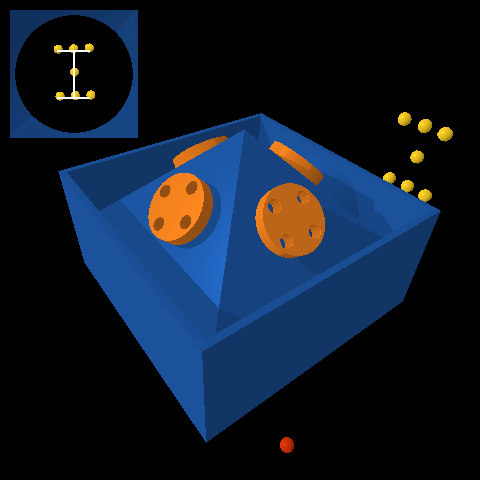
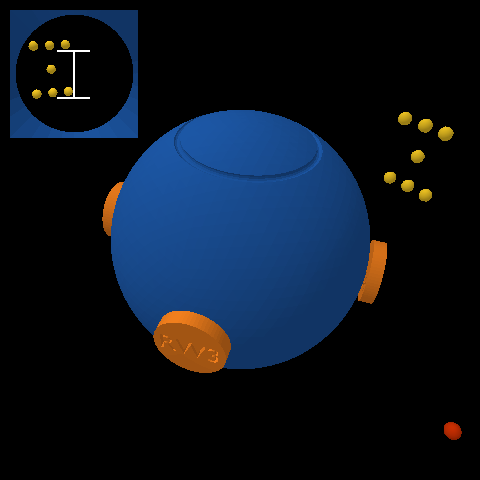
dp3 guidelines

diff --git a/docs/projects.md b/docs/projects.md
@@ -13,6 +13,230 @@ description: How to get started on your design projects
 
 ---
 
+## Design Project \#3 (Spacecraft with star tracker)
+
+### System {#spacecraft-system}
+
+The third project that you will complete this semester is to design, implement, and test a controller that enables a spacecraft to maintain a fixed orientation, as pictured below:
+
+![Image of spacecraft](./images/spacecraft.png)
+
+This spacecraft (blue) has four reaction wheels (orange). It is up to you to decide where these reaction wheels are located — the picture shows one among many possibilities. These reaction wheels, like the [control moment gyroscope you considered in your first design project](#design-project-1-cmg), are momentum exchange devices — when a torque is applied to a wheel, an equal and opposite torque is applied to the spacecraft. It is these reaction wheels that will allow your controller to keep the spacecraft pointing in the right direction.
+
+This spacecraft also has a star tracker. This star tracker is a camera that measures the position in an image of each star (yellow) in its field of view. These measured positions, while not perfect, can be compared to where stars *should* be in order to estimate the orientation and angular velocity of the spacecraft.
+
+Beware! Flying debris (red) may collide with your spacecraft and cause sudden disturbances.
+
+Working as a GNC sub-contractor, you have been asked by a client to design the momentum exchange system (i.e., decide where to put each reaction wheel) as well as to prototype and test a controller that keeps the spacecraft at a fixed orientation despite the flying debris.
+
+
+### Context {#spacecraft-context}
+
+[Celestial navigation](https://education.nationalgeographic.org/resource/navigation/) — "using stars, moon, sun, and horizon to calculate position" (or simply the time of day) — dates back thousands of years.
+
+[Star trackers](https://en.wikipedia.org/wiki/Star_tracker) — like those from [Ball](https://www.ball.com/aerospace/capabilities/technologies-components/star-trackers), [Terma](https://www.terma.com/products/space/star-trackers/), or [Rocket Lab](https://www.rocketlabusa.com/space-systems/satellite-components/star-trackers/), for example — take this same concept into space. One key difference is that while celestial navigation on Earth has been used primarily to determine position (i.e., latitude and longitude), star trackers in space are used primarily to determine orientation or "spacecraft attitude."
+
+The way this works is that star trackers compare the location of stars in an image to a pre-surveyed catalog of stars. In particular, this catalog allows a star tracker to predict the pattern of stars that will be seen in an image as a function of spacecraft orientation. The star tracker searches for the orientation — e.g., for the yaw, pitch, and roll angles — that would make the predicted pattern best match the observed pattern.
+
+Doing this from scratch without a good initial guess is a challenge, and can be slow. *Updating* an *existing* estimate of orientation, however, can be done quickly and used for fine guidance. This is what you will do in your own project.
+
+Some of the small satellites that are designed, built, and launched by the Laboratory for Advanced Space Systems at Illinois (LASSI) use star trackers as a critical part of their GNC subsystems. See their [description of facilities](https://aerospace.illinois.edu/research/research-facilities/laboratory-advanced-space-systems-illinois-lassi) and [ research website](https://lassiaero.web.illinois.edu) for more information.
+
+You can read more about star trackers and their use for spacecraft attitude determination — as well as more about reaction wheels and their use for spacecraft attitude control — in [Fundamentals of Spacecraft Attitude Determination and Control (Markley and Crassidis, 2014)](https://link.springer.com/book/10.1007/978-1-4939-0802-8).
+
+
+
+
+### Model {#spacecraft-model}
+
+The rotational motion of the spacecraft is governed by ordinary differential equations with the following form:
+
+$$\begin{bmatrix} \dot{\psi} \\ \dot{\theta} \\ \dot{\phi} \\ \dot{w_x} \\ \dot{w_y} \\ \dot{w_z} \end{bmatrix} = f\left(\psi, \theta, \phi, w_x, w_y, w_z, \tau_1, \tau_2, \tau_3, \tau_4\right).$$
+
+Here are the variables in these equations:
+
+* $\psi$ is the **yaw angle** (rad)
+* $\theta$ is the **pitch angle** (rad)
+* $\phi$ is the **roll angle** (rad)
+* $w_x$ is the **angular velocity about the body-fixed $x$ axis** (rad/s), which points forward
+* $w_y$ is the **angular velocity about the body-fixed $y$ axis** (rad/s), which points left
+* $w_z$ is the **angular velocity about the body-fixed $z$ axis** (rad/s), which points up
+* $\tau_1$ is the **torque applied to wheel 1** by a motor on the spacecraft ($N\cdot\text{m}$)
+* $\tau_2$ is the **torque applied to wheel 2** by a motor on the spacecraft ($N\cdot\text{m}$)
+* $\tau_3$ is the **torque applied to wheel 3** by a motor on the spacecraft ($N\cdot\text{m}$)
+* $\tau_4$ is the **torque applied to wheel 4** by a motor on the spacecraft ($N\cdot\text{m}$)
+
+The maximum torque that can be applied by each motor is $\pm 1\;\text{N}\cdot\text{m}$.
+
+A [symbolic description of these equations of motion]({{ site.github.repository_url }}/tree/main/projects/03_spacecraft/DeriveEOM-Template.ipynb) is provided with the [project code]({{ site.github.repository_url }}/tree/main/projects/03_spacecraft).
+
+<div class="alert alert-warning">
+<b>The equations of motion depend on where the reaction wheels are placed.</b> The <a href="{{ site.github.repository_url }}/tree/main/projects/03_spacecraft/DeriveEOM-Template.ipynb">same notebook that derives the equations of motion</a> also allows you to choose (and visualize) this placement. You <b>must</b> run the code in this notebook <b>before</b> you run the simulator, since it creates the file (<code>spacecraft.urdf</code> in the <code>urdf</code> directory) that has a model of the spacecraft with <b>your</b> choice of reaction wheel locations.
+</div>
+
+The sensor is a star tracker. It measures the position (in an image) of each star in its field of view. This measurement has the following form **for each star**:
+
+$$\begin{bmatrix} y_\text{star} \\ z_\text{star} \end{bmatrix} = g(\psi, \theta, \phi, \alpha, \delta).$$
+
+You will already recognize the yaw, pitch, and roll angles in this equation. The other variables are as follows:
+
+* $\alpha$ is the **right ascension** (rad) of the star
+* $\delta$ is the **declination** (rad) of the star
+
+Again, a [symbolic description of this equation]({{ site.github.repository_url }}/tree/main/projects/03_spacecraft/DeriveEOM-Template.ipynb) is provided with the [project code]({{ site.github.repository_url }}/tree/main/projects/03_spacecraft). There are seven stars in total — you can find the parameters $\alpha$ and $\delta$ for each one in the [SpacecraftDemo]({{ site.github.repository_url }}/tree/main/projects/03_spacecraft/SpacecraftDemo-Template.ipynb) template.
+
+The code provided [here]({{ site.github.repository_url }}/tree/main/projects/03_spacecraft) simulates the motion of this system ([SpacecraftDemo]({{ site.github.repository_url }}/tree/main/projects/03_spacecraft/SpacecraftDemo-Template.ipynb)) and also derives both the equations of motion and the sensor model in symbolic form ([DeriveEOM]({{ site.github.repository_url }}/tree/main/projects/03_spacecraft/DeriveEOM-Template.ipynb)).
+
+The goal is to keep the spacecraft close to zero yaw, pitch, and roll **for as long as possible** despite noisy sensor measurements and space debris.
+
+Why do I say "for as long as possible?" Because the simulator will quit and the spacecraft mission will be declared over when one of two conditions are met:
+
+* Any star leaves the star tracker's field of view.
+* Any reaction wheel has angular velocity that exceeds $\pm 50\;\text{rad}/\text{s}$.
+
+Since you have no way to do momentum dumping (or... do you?), it is inevitable that one of the wheels will eventually spin too fast. Just try to hang on as long as you can.
+
+
+
+### Your tasks {#spacecraft-your-tasks}
+
+The focus of your analysis this time will be on data collection. The initial conditions, the sensor measurements, and the disturbances are random. So, for a given control design, your results will vary (perhaps significantly). It is not enough to look at the results of one simulation---you will have to look at the results of many simulations. At minimum, for the final design you consider, you should do the following:
+
+* Collect data from at least 100 simulations that run until failure (i.e., with a very large `max_time`).
+* Plot a histogram of the time until failure across all simulations.
+* Plot a histogram of the root-mean-square error (RMSE) in yaw, pitch, and roll angles across all simulations.
+
+Remember that the simulation code provides an option to turn the display off, which can speed up data collection a lot.
+
+#### Things you need to do {#to-do-spacecraft}
+
+Please do the following things:
+
+* Define a [requirement](#what-is-a-requirement) and a [verification](#what-is-a-verification), just as you did in the [second design project](#design-project-2-differential-drive-robot-in-artificial-gravity).
+* Linearize the dynamic model (i.e., the equations of motion) and the sensor model.
+* Show that the linearized system is both controllable and observable.
+* Design a stable controller and a stable observer.
+* Implement both the controller and observer and test them in simulation.
+* Follow the instructions you wrote to verify that your requirement is (or is not) satisfied.
+* Include at least one figure of aggregate results (e.g., a histogram).
+* Include at least one figure that provides evidence the observer is working (e.g., a plot of error in the state estimate as a function of time).
+
+There are many ways to go beyond minimum requirements (how do your results change with different amounts of sensor noise? how do your results change with a different number of arrangement of stars? is there a tradeoff between "time until failure" and "RMSE in yaw, pitch, and roll" or can both measures of performance be improved together? is there a way to use collision with space debris to do momentum dumping?) — come talk to us if you want an extra challenge.
+
+
+### Your deliverables {#spacecraft-your-deliverables}
+
+##### Draft report with theory (by 11:59pm on Friday, March 24)
+
+Submit a first draft of your [report (see below for guidelines)](#final-report-by-1159pm-on-friday-april-7) that includes, at minimum, **a complete "Introduction" section** and a complete "Theory" section. This draft must also include the appendix with your log of all work done so far by each group member.
+
+Upload it to the [**DP3 Draft 1** group assignment on Canvas](https://canvas.illinois.edu/courses/35036/assignments/685986).
+
+##### Draft report with results (by 11:59pm on Friday, March 31)
+
+Submit a second draft of your [report (see below for guidelines)](#final-report-by-1159pm-on-friday-april-7) that includes, at minimum, a complete "Experimental methods" section and a complete "Results and discussion" section. This draft must also include the appendix with your log of all work done so far by each group member.
+
+Upload it to the [**DP3 Draft 2** group assignment on Canvas](https://canvas.illinois.edu/courses/35036/assignments/685987).
+
+##### Final report (by 11:59pm on Friday, April 7)
+
+This report will satisfy the following requirements:
+
+* It must be a single PDF document that conforms to the guidelines for [Preparation of Papers for AIAA Technical Conferences](https://www.aiaa.org/events-learning/events/Technical-Presenter-Resources). In particular, you **must** use either the [Word](https://www.aiaa.org/docs/default-source/uploadedfiles/aiaa-forums-shared-universal-content/preparation-of-papers-for-technical-conferences.docx?sfvrsn=e9a97512_10) or [LaTeX](https://www.overleaf.com/latex/templates/latex-template-for-the-preparation-of-papers-for-aiaa-technical-conferences/rsssbwthkptn#.WbgUXMiGNPZ) manuscript template.
+* It must have a descriptive title that begins with "DP3" (e.g., "DP3: Control of a spacecraft with reaction wheels and a star tracker").
+* It must have a list of author names and affiliations.
+* It must contain the following sections:
+  * *Abstract.* Summarize your entire report in one short paragraph.
+  * *Nomenclature.* List all symbols used in your report, with units.
+  * *Introduction.* Prepare the reader to understand the rest of your report and how it fits within a broader context.
+  * *Theory.* Derive a model and do control design.
+  * *Experimental methods.* Describe the experiments you performed in simulation in enough detail that they could be understood and repeated by a colleague. This section should also clearly define your [requirement](#what-is-a-requirement) and [verification](#what-is-a-verification).
+  * *Results and discussion.* Show the results of your experiments in simulation (e.g., with plots and tables) and discuss the extent to which they validate your control design (including the extent to which they verify your requirement).
+  * *Conclusion.* Summarize key conclusions and identify ways that others could improve or build upon your work.
+  * *Acknowledgements.* Thank anyone outside your group with whom you discussed this project and clearly describe what you are thanking them for.
+  * *References.* Cite any sources, including the work of your colleagues.
+  * *Appendix.* See below.
+* It must be a maximum of 6 pages (not including the Appendix).
+
+The appendix, which does not count against your page limit, must have a table (with as many rows as necessary) that logs all of the work done by each group member on the project:
+
+| Day | Task | Person or People |
+| :-: | :-: | :-: |
+| | | |
+| | | |
+
+<br>
+
+The appendix must also have a **team reflection** in which you summarize your experience working together on the project. What went well? How did you communicate? What might have helped your team be more productive? 
+
+Submit your report by uploading it to the [**DP3 Report** group assignment on Canvas](https://canvas.illinois.edu/courses/35036/assignments/685988).
+
+##### Final video (by 11:59pm on Friday, April 7)
+
+This video will satisfy the following requirements:
+
+* It must be 70 seconds in length.
+* The first and last 5 seconds must include text with a descriptive title (the same title as your report), your names, and the following words somewhere in some order:
+  * AE353: Aerospace Control Systems
+  * Spring 2023
+  * Department of Aerospace Engineering
+  * University of Illinois at Urbana-Champaign
+* The middle 60 seconds must *clearly* communicate your methods and results to potential stakeholders. Who are you designing for? How will your controller help them?
+* It must stay professional (use good sense, please).
+
+Submit your video by uploading it to the [AE353 (Spring 2023) Project Videos](https://mediaspace.illinois.edu/channel/channelid/289863252) channel on Illinois Media Space. Please take care to do the following:
+
+* Use the same descriptive title as your report, appended with your names in parentheses --- for example, "DP3: Control of a spacecraft with reaction wheels and a star tracker (Tim Bretl and Jacob Kraft)".
+* Add the tag `dp3` (a **lower case** "dp" followed by the number "3"), so viewers can filter by project number.
+
+You are welcome to resubmit your video at any time before the deadline. To do so, please "Edit" your **existing** video and then do "Replace Media". Please do **not** create a whole new submission.
+
+We realize that 60 seconds is short! Think carefully about what to include (what to show and what to say) and anticipate the need for multiple "takes" and for time spent editing.
+
+Please also submit the URL for your video to the [**DP3 Video** group assignment on Canvas](https://canvas.illinois.edu/courses/35036/assignments/685989).
+
+##### Final code (by 11:59pm on Friday, April 7)
+
+This code will satisfy the following requirements:
+
+* It must be a single jupyter notebook (with the extension `.ipynb`) that, if placed in the `projects/03_spacecraft` directory and run from start to finish, would reproduce *all* of the results that you show in your report.
+* It must not rely on any dependencies other than those associated with the [`ae353` conda environment](setup).
+* It must be organized and clearly documented, with a mix of markdown cells and inline comments.
+
+Submit your code by uploading it to the [**DP3 Code** group assignment on Canvas](https://canvas.illinois.edu/courses/35036/assignments/685990). You will be asked to upload it in two formats — as the original `.ipynb` (so we can run your code) and as rendered `.html` (so we can see and comment on your code in Canvas). To get your notebook in `.html` format, you can do "File" > "Download as" > "HTML (.html)" from the jupyter browser window.
+
+##### Individual reflection (by 11:59pm on Monday, April 10)
+
+Complete the [**DP3 Reflection** assignment on Canvas](https://canvas.illinois.edu/courses/35036/assignments/685991) sometime between 3:00pm on Friday, April 7 and 11:59pm on Monday, April 10. This assignment, which should take no more than 10 or 15 minutes, will give you a chance to reflect on your experiences during this project and to identify things you may want to change for the next project.
+
+### Evaluation {#evaluation-spacecraft}
+
+Your project grade will be weighted as follows:
+
+* (10%) Draft report with theory
+* (10%) Draft report with results
+* (48%) Final report
+* (18%) Final video
+* (10%) Final code
+* (4%) Individual reflection
+
+Rubrics will be discussed in class.
+
+### Frequently asked questions {#faq-spacecraft}
+
+##### May I watch videos that are submitted by other students?
+
+Yes. All videos will be available in the [AE353 (Spring 2023) Project Videos](https://mediaspace.illinois.edu/channel/channelid/289863252) channel on Illinois Media Space as soon as they are submitted by your colleagues (see the [Video](#final-video-by-1159pm-on-friday-april-7) deliverable). You may watch these videos whenever you want, even before you submit your own.
+
+If you are inspired by a video, or if watching a video strongly influences the way you proceed with your own design project, then you must **acknowledge and cite** this video in your report (and in your own video, if appropriate). Failure to do so would be considered [plagiarism](https://studentcode.illinois.edu/article1/part4/1-402/).
+
+##### How do I get started?
+
+The first thing you should do is [follow the instructions to download and run course code](setup), choose a placement of reaction wheels using the [DeriveEOM]({{ site.github.repository_url }}/tree/main/projects/03_spacecraft/DeriveEOM-Template.ipynb) notebook, verify that you can run a simulation using the [SpacecraftDemo]({{ site.github.repository_url }}/tree/main/projects/03_spacecraft/SpacecraftDemo-Template.ipynb) notebook, and mess around with different actuator commands (e.g., constant wheel torques) to get a sense for how the system response.
+
+After that, if you have read the entire [project description](#design-project-3-spacecraft-with-star-tracker) and are not sure how to proceed, then take your best guess and ask a question on [Campuswire](https://campuswire.com/c/G9558828D/). Improving your ability to get unstuck by asking a good question is an explicit goal of this course.
+
+
 
 ## Design Project \#2 (Differential-drive robot in artificial gravity)
 
